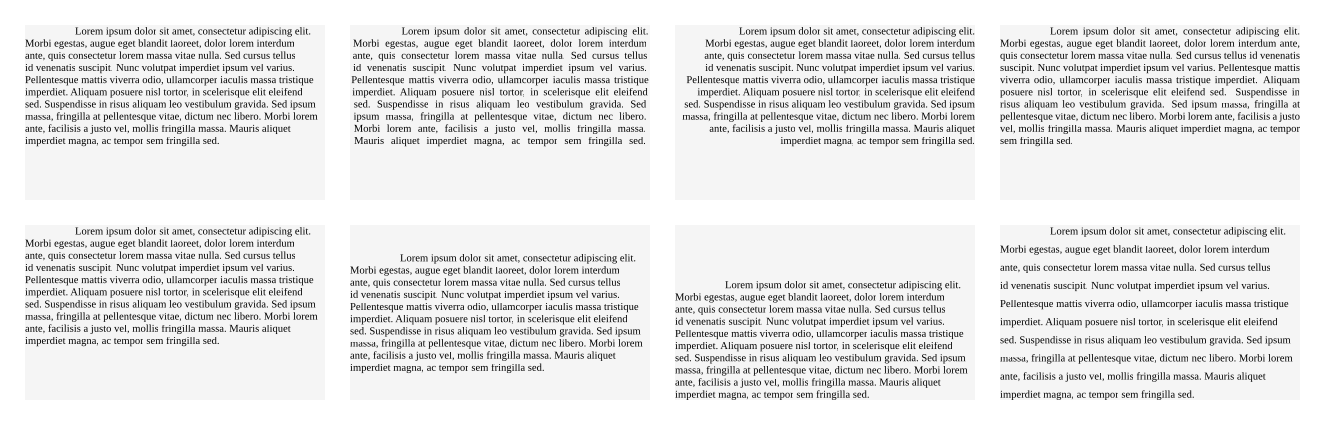
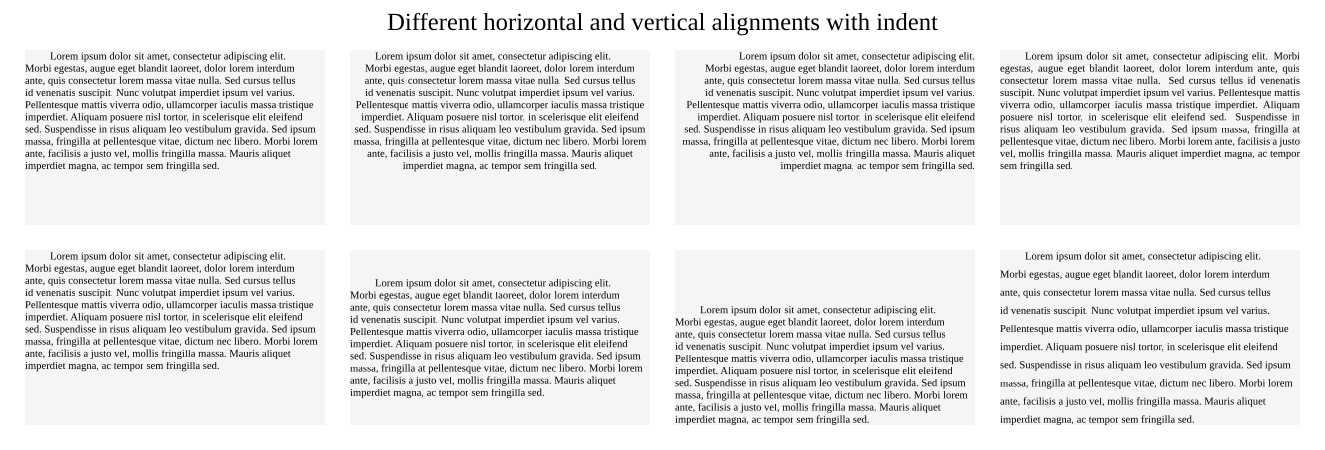
Update resources

Changed region(s): [[0.0, 0.0306, 0.9902, 0.3976], [0.0, 0.52, 0.9902, 0.9482]]

diff --git a/resources/docs/text.go b/resources/docs/text.go
@@ -15,7 +15,7 @@ func main() {
 		panic(err)
 	}
 
-	c := canvas.New(265, 85)
+	c := canvas.New(265, 90)
 	ctx := canvas.NewContext(c)
 	draw(ctx)
 	c.WriteFile("text.png", rasterizer.PNGWriter(5.0))
@@ -25,7 +25,7 @@ func drawText(c *canvas.Context, x, y float64, halign, valign canvas.TextAlign, 
 	face := fontFamily.Face(6.0, color.Black, canvas.FontRegular, canvas.FontNormal)
 	phrase := "Lorem ipsum dolor sit amet, consectetur adipiscing elit. Morbi egestas, augue eget blandit laoreet, dolor lorem interdum ante, quis consectetur lorem massa vitae nulla. Sed cursus tellus id venenatis suscipit. Nunc volutpat imperdiet ipsum vel varius. Pellentesque mattis viverra odio, ullamcorper iaculis massa tristique imperdiet. Aliquam posuere nisl tortor, in scelerisque elit eleifend sed. Suspendisse in risus aliquam leo vestibulum gravida. Sed ipsum massa, fringilla at pellentesque vitae, dictum nec libero. Morbi lorem ante, facilisis a justo vel, mollis fringilla massa. Mauris aliquet imperdiet magna, ac tempor sem fringilla sed."
 
-	text := canvas.NewTextBox(face, phrase, 60.0, 35.0, halign, valign, indent, 1.0)
+	text := canvas.NewTextBox(face, phrase, 60.0, 35.0, halign, valign, indent, 0.0)
 	c.SetFillColor(canvas.Whitesmoke)
 	c.DrawPath(x, y, canvas.Rectangle(60.0, -35.0))
 	c.SetFillColor(canvas.Black)
@@ -35,14 +35,14 @@ func drawText(c *canvas.Context, x, y float64, halign, valign canvas.TextAlign, 
 func draw(c *canvas.Context) {
 	face := fontFamily.Face(14.0, color.Black, canvas.FontRegular, canvas.FontNormal)
 	c.SetFillColor(canvas.Black)
-	c.DrawText(132.5, 88.0, canvas.NewTextBox(face, "Different horizontal and vertical alignments with indent", 0.0, 0.0, canvas.Center, canvas.Top, 0.0, 0.0))
+	c.DrawText(132.5, 84.0, canvas.NewTextLine(face, "Different horizontal and vertical alignments with indent", canvas.Center))
 
-	drawText(c, 5.0, 80.0, canvas.Left, canvas.Top, 10.0)
-	drawText(c, 70.0, 80.0, canvas.Center, canvas.Top, 10.0)
-	drawText(c, 135.0, 80.0, canvas.Right, canvas.Top, 10.0)
-	drawText(c, 200.0, 80.0, canvas.Justify, canvas.Top, 10.0)
-	drawText(c, 5.0, 40.0, canvas.Left, canvas.Top, 10.0)
-	drawText(c, 70.0, 40.0, canvas.Left, canvas.Center, 10.0)
-	drawText(c, 135.0, 40.0, canvas.Left, canvas.Bottom, 10.0)
-	drawText(c, 200.0, 40.0, canvas.Left, canvas.Justify, 10.0)
+	drawText(c, 5.0, 80.0, canvas.Left, canvas.Top, 5.0)
+	drawText(c, 70.0, 80.0, canvas.Center, canvas.Top, 5.0)
+	drawText(c, 135.0, 80.0, canvas.Right, canvas.Top, 5.0)
+	drawText(c, 200.0, 80.0, canvas.Justify, canvas.Top, 5.0)
+	drawText(c, 5.0, 40.0, canvas.Left, canvas.Top, 5.0)
+	drawText(c, 70.0, 40.0, canvas.Left, canvas.Center, 5.0)
+	drawText(c, 135.0, 40.0, canvas.Left, canvas.Bottom, 5.0)
+	drawText(c, 200.0, 40.0, canvas.Left, canvas.Justify, 5.0)
 }

diff --git a/resources/docs/stroke.go b/resources/docs/stroke.go
@@ -13,7 +13,7 @@ var strokeWidth = 10.0
 
 func main() {
 	fontFamily = canvas.NewFontFamily("times")
-	if err := fontFamily.LoadLocalFont("NimbusRoman-Regular", canvas.FontRegular); err != nil {
+	if err := fontFamily.LoadLocalFont("Liberation Serif", canvas.FontRegular); err != nil {
 		panic(err)
 	}
 
@@ -42,35 +42,35 @@ func drawStrokedPath(c *canvas.Context, x, y float64, path string, cr canvas.Cap
 func drawText(c *canvas.Context, x, y float64, text string) {
 	face := fontFamily.Face(18.0, canvas.Black, canvas.FontRegular, canvas.FontNormal)
 	c.SetFillColor(canvas.Black)
-	c.DrawText(x, y, canvas.NewTextBox(face, text, 0.0, 0.0, canvas.Center, canvas.Top, 0.0, 0.0))
+	c.DrawText(x, y, canvas.NewTextLine(face, text, canvas.Center))
 }
 
 func draw(c *canvas.Context) {
 	pathCapper := "M-20 0L0 0"
 	pathJoiner := "M-20 -10A25 25 0 0 0 0 0A20 20 0 0 1 -5 -15"
 
-	drawText(c, 20.0, 115.0, "ButtCap")
+	drawText(c, 20.0, 109.0, "ButtCap")
 	drawStrokedPath(c, 30.0, 100.0, pathCapper, canvas.ButtCap, canvas.RoundJoin)
 
-	drawText(c, 70.0, 115.0, "SquareCap")
+	drawText(c, 70.0, 109.0, "SquareCap")
 	drawStrokedPath(c, 80.0, 100.0, pathCapper, canvas.SquareCap, canvas.RoundJoin)
 
-	drawText(c, 120.0, 115.0, "RoundCap")
+	drawText(c, 120.0, 109.0, "RoundCap")
 	drawStrokedPath(c, 130.0, 100.0, pathCapper, canvas.RoundCap, canvas.RoundJoin)
 
-	drawText(c, 23.0, 82.0, "RoundJoin")
+	drawText(c, 23.0, 77.0, "RoundJoin")
 	drawStrokedPath(c, 30.0, 67.0, pathJoiner, canvas.ButtCap, canvas.RoundJoin)
 
-	drawText(c, 73.0, 82.0, "BevelJoin")
+	drawText(c, 73.0, 77.0, "BevelJoin")
 	drawStrokedPath(c, 80.0, 67.0, pathJoiner, canvas.ButtCap, canvas.BevelJoin)
 
-	drawText(c, 123.0, 82.0, "MiterJoin")
+	drawText(c, 123.0, 77.0, "MiterJoin")
 	drawStrokedPath(c, 130.0, 67.0, pathJoiner, canvas.ButtCap, canvas.MiterClipJoin(canvas.BevelJoin, math.NaN()))
 
-	drawText(c, 173.0, 82.0, "ArcsJoin")
+	drawText(c, 173.0, 77.0, "ArcsJoin")
 	drawStrokedPath(c, 180.0, 67.0, pathJoiner, canvas.ButtCap, canvas.ArcsClipJoin(canvas.BevelJoin, math.NaN()))
 
 	strokeWidth = 15.0
-	drawText(c, 25.0, 40.0, "Tight corners")
+	drawText(c, 25.0, 35.0, "Tight corners")
 	drawStrokedPath(c, 5.0, 12.0, "C30 0 30 10 25 10", canvas.ButtCap, canvas.BevelJoin)
 }

diff --git a/resources/docs/getting-started.go b/resources/docs/getting-started.go
@@ -1,0 +1,24 @@
+package main
+
+import (
+	"github.com/tdewolff/canvas"
+	"github.com/tdewolff/canvas/rasterizer"
+)
+
+func main() {
+	// Create new canvas of dimension 100x100 mm
+	c := canvas.New(100, 100)
+
+	// Create a canvas context used to keep drawing state
+	ctx := canvas.NewContext(c)
+
+	// Create a triangle path from an SVG path and draw it to the canvas
+	triangle, err := canvas.ParseSVG("L60 0L30 60z")
+	if err != nil {
+		panic(err)
+	}
+	ctx.DrawPath(20, 20, triangle)
+
+	// Rasterize the canvas and write to a PNG file with 3.2 dots-per-mm (320x320 px)
+	c.WriteFile("getting-started.png", rasterizer.PNGWriter(3.2))
+}

diff --git a/resources/preview.go b/resources/preview.go
@@ -48,7 +48,7 @@ func drawText(c *canvas.Context, x, y float64, face *canvas.FontFace, rich *canv
 	metrics := face.Metrics()
 	width, height := 90.0, 32.0
 
-	text := rich.ToText(width, height, canvas.Justify, canvas.Top, 0.0, 1.0)
+	text := rich.ToText(width, height, canvas.Justify, canvas.Top, 0.0, 0.0)
 
 	c.SetFillColor(color.RGBA{192, 0, 64, 255})
 	c.DrawPath(x, y, text.Bounds().ToPath())
